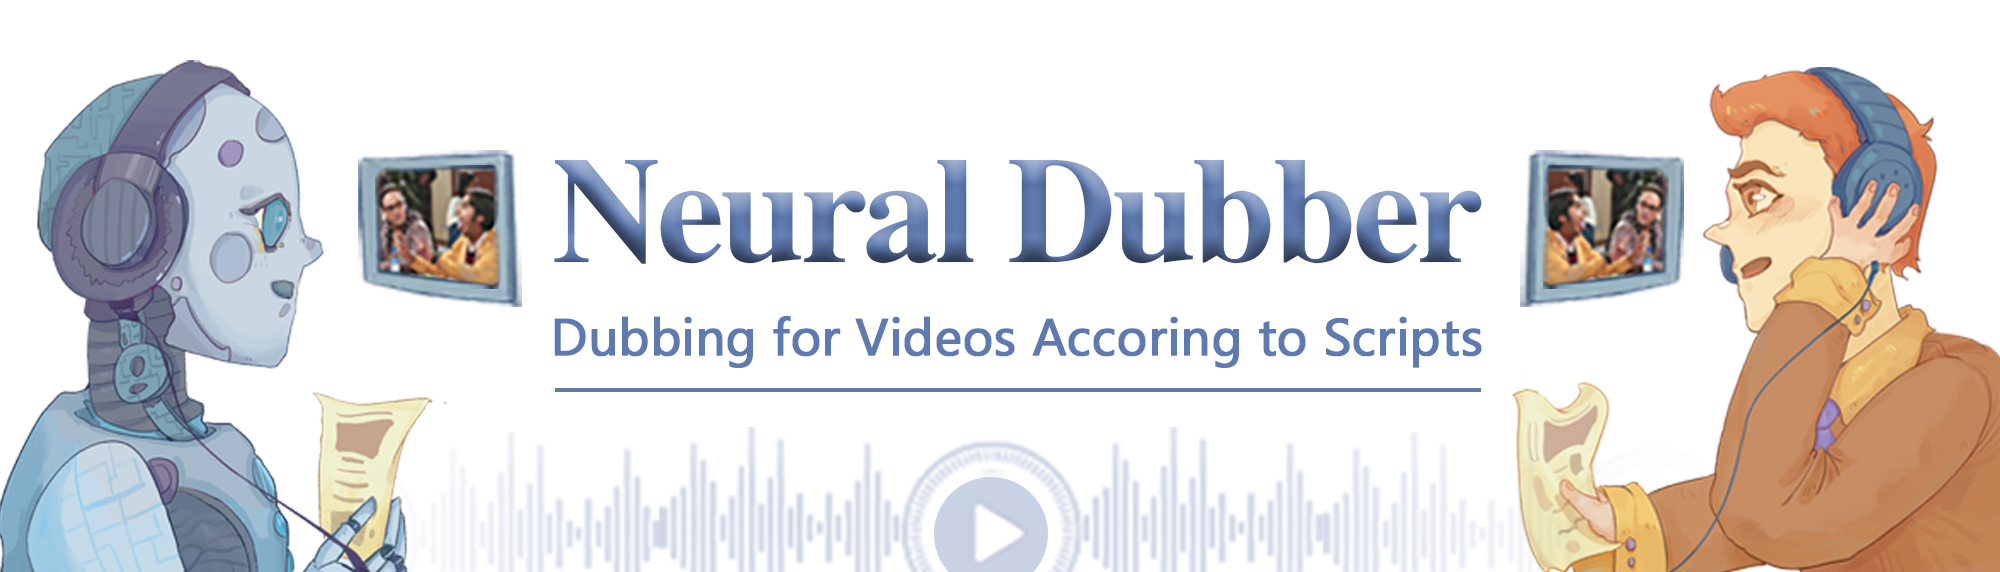
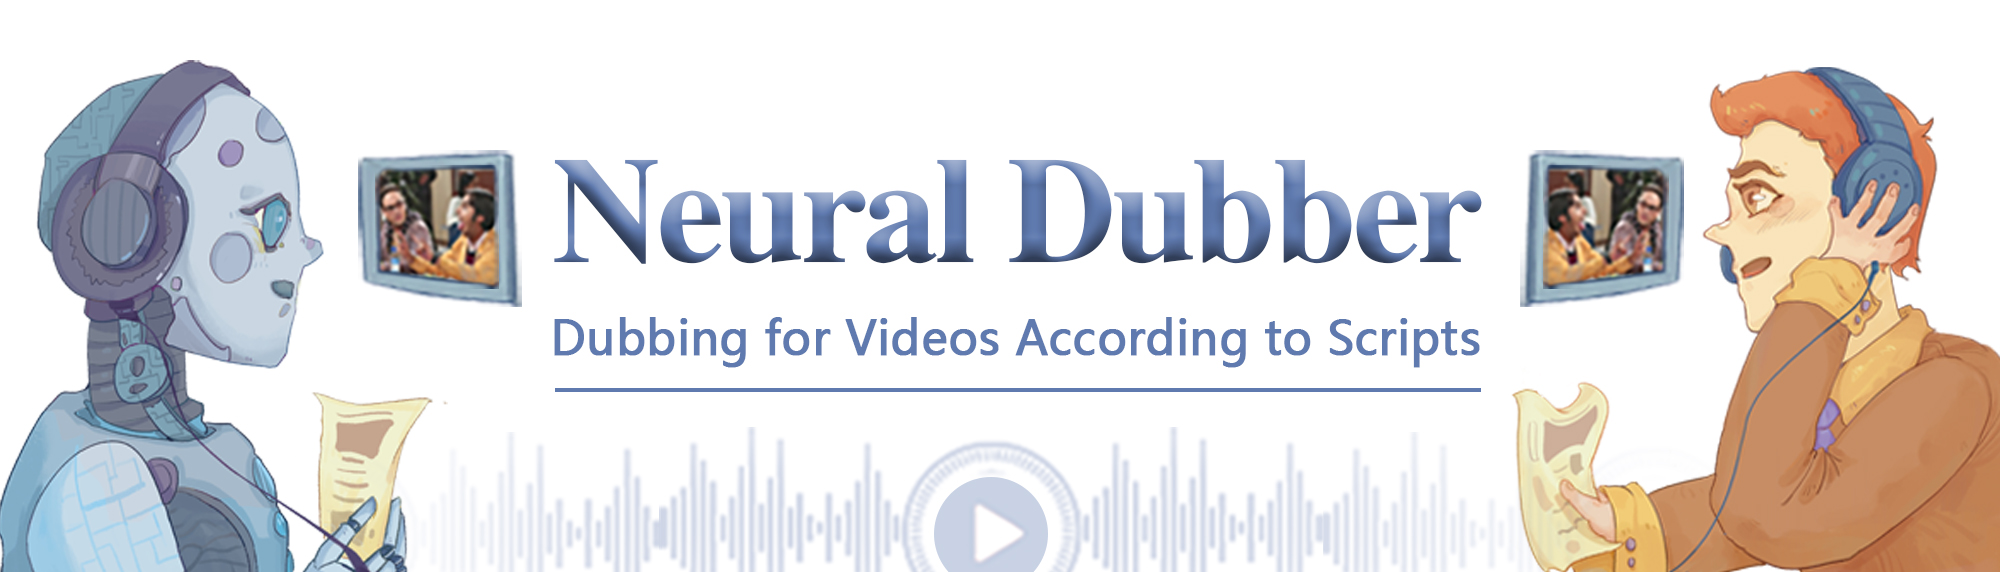
fix typo and refine

Changed region(s): [[0.279, 0.535, 0.744, 0.6538]]

diff --git a/index.html b/index.html
@@ -30,7 +30,7 @@ Neural Dubber
 
 
         
-<link rel="shortcut icon" href="/NeuralDubber/img/fav.ico">
+<link rel="shortcut icon" href="/NeuralDubber/images/marslab.png">
 
 
         
@@ -71,6 +71,8 @@ Neural Dubber
                     
                     <div class="subtitle is-3 ">
                         <DIV style="font-size:x-large">
+<div style="font-size:xx-large">Neural Dubber: Dubbing for Videos According to Scripts</div>
+<br>
 <a href="https://huchenxucs.github.io/">Chenxu Hu</a><sup>1</sup>, Qiao Tian<sup>2</sup>, Tingle Li<sup>1,3</sup>, Yuping Wang<sup>2</sup>, Yuxuan Wang<sup>2</sup>, Hang Zhao<sup>1,3</sup>
 <!-- <a href="https://people.csail.mit.edu/yuewang/">Yue Wang</a><sup>2</sup>, <a href="https://scholar.google.com.hk/citations?user=nUyTDosAAAAJ&hl=en/">Yilun Wang</a><sup>3</sup>, <a href="http://people.csail.mit.edu/hangzhao/">Hang Zhao</a><sup>1</sup> -->
 <br>
@@ -80,23 +82,6 @@ Neural Dubber
 <br>
 <p><strong>NeurIPS 2021</strong></p>
 <br>
-<!-- <div class="social-icons" style="font-size:20px">
-    <a href="https://arxiv.org/abs/2110.08243">
-        <i class="fas fa-file" style="font-size:40px"></i>arXiv
-    </a>
-    &nbsp;&nbsp;&nbsp;&nbsp;&nbsp;&nbsp;&nbsp;&nbsp;&nbsp;&nbsp;&nbsp;&nbsp;&nbsp;&nbsp;
-    <a href="https://github.com/Tsinghua-MARS-Lab/NeuralDubber">
-        <i class="fab fa-github" style="font-size: 40px"></i>Github link
-    </a>
-    &nbsp;&nbsp;&nbsp;&nbsp;&nbsp;&nbsp;&nbsp;&nbsp;&nbsp;&nbsp;&nbsp;&nbsp;&nbsp;&nbsp;
-    <a href="https://mp.weixin.qq.com/s/I4BNwN25JOJoTs8stzDqUg">
-        <i class="fas fa-newspaper" style="font-size: 40px"></i>News(Chinese)
-    </a>
-    &nbsp;&nbsp;&nbsp;&nbsp;&nbsp;&nbsp;&nbsp;&nbsp;&nbsp;&nbsp;&nbsp;&nbsp;&nbsp;&nbsp;
-    <a href="https://slator.com/neural-dubber-tiktok-company-bytedance-explores-automated-dubbing/">
-        <i class="fas fa-newspaper" style="font-size: 40px"></i>News(English)
-    </a>
-</div> -->
 <div class="social-icons" style="font-size:20px">
     <table frame=void style="border:none; padding:0; margin:0; width:100%"> 
 <colgroup>  
@@ -254,13 +239,13 @@ Neural Dubber
 <h2 id="automatic-video-dubbing-avd" class="anchor-link"><a href="#automatic-video-dubbing-avd">Automatic Video Dubbing (AVD)</a></h2>
 <figure>
 <img src="images/avd-task-crop.png" style="padding:0px; margin:0px">
-<figcaption style="text-align:left">
+<figcaption style="text-align:justify">
 <!-- <font size="1" color="red">This is some text!</font> -->
 The schematic diagram of the automatic video dubbing (AVD) task. Given the video script and the video as input, the AVD task aims to synthesize speech that is temporally synchronized with the video. This is a scene where two people are talking with each other. The face picture is gray to indicate that the person was not talking at that time.
 </figcaption>
 </figure>
 <br>
-<div align="left" style="font-size:20px">
+<div align="left" style="font-size:20px; text-align:justify">
 Given a sentence and a corresponding video clip (without audio), the goal of automatic video dubbing (AVD) is to synthesize natural and intelligible speech whose content is consistent with the sentence, and whose prosody is synchronized with the lip movement of the active speaker in the video. Compared to the traditional speech synthesis task which only generates natural and intelligible speech given the sentence, AVD task is more difficult due to the synchronization requirement.
 </div>
                 </div>
@@ -291,7 +276,7 @@ Given a sentence and a corresponding video clip (without audio), the goal of aut
                 <h2 class="title is-2 has-text-centered">Abstract</h2>
                 
                 <div class="markdown has-text-centered">
-                    <div align="left" style="font-size:20px">
+                    <div align="left" style="font-size:20px; text-align:justify">
 Dubbing is a post-production process of re-recording actors' dialogues, which is extensively used in filmmaking and video production. It is usually performed manually by professional voice actors who read lines with proper prosody, and in synchronization with the pre-recorded videos. In this work, we propose Neural Dubber, the first neural network model to solve a novel automatic video dubbing (AVD) task: synthesizing human speech synchronized with the given video from the text. Neural Dubber is a multi-modal text-to-speech (TTS) model that utilizes the lip movement in the video to control the prosody of the generated speech. Furthermore, an image-based speaker embedding (ISE) module is developed for the multi-speaker setting, which enables Neural Dubber to generate speech with a reasonable timbre according to the speaker's face.  Experiments on the chemistry lecture single-speaker dataset and LRS2 multi-speaker dataset show that Neural Dubber can generate speech audios on par with state-of-the-art TTS models in terms of speech quality. Most importantly, both qualitative and quantitative evaluations show that Neural Dubber can control the prosody of synthesized speech by the video, and generate high-fidelity speech temporally synchronized with the video.
 </div>
 
@@ -329,7 +314,7 @@ Dubbing is a post-production process of re-recording actors' dialogues, which is
 </video>
 <br>
 <!-- <br> -->
-<div align="left" style="font-size:20px">
+<div align="left" style="font-size:20px; text-align:justify">
 First, we apply a phoneme encoder and a video encoder to process the phonemes and video frames respectively. After the encoding, both raw phonemes and viedo frames turn into sequences of hidden representations. Then we feed these hidden representations into the text-video aligner and get the expanded sequence Hmel with the same length as the target mel-spectrograms sequence. Meanwhile, a face image randomly selected from the video frames is input into image-based speaker embedding (ISE) module to generate a image-based speaker embedding (only used in multi-speaker setting). We add Hmel and ISE together and feed them into the variance adaptor to add some variance information (e.g., pitch and energy). Finally, we use the mel-spectrogram decoder to convert the adapted hidden sequence into mel-spectrograms sequence.
 </div>
                 </div>
@@ -360,7 +345,7 @@ First, we apply a phoneme encoder and a video encoder to process the phonemes an
                 <h2 class="title is-2 has-text-centered">Results</h2>
                 
                 <div class="markdown has-text-centered">
-                    <DIV style="text-align:left">
+                    <DIV style="text-align:justify">
 Since the AVD task aims to synthesize human speech synchronized with the video from text, the audio quality and the audio-visual synchronization (AV Sync) are the important evaluation criteria.
 <DIV>
 <br>
@@ -376,7 +361,7 @@ In order to measure the synchronization between the generated speech and the vid
 <p>We conduct qualitative and quantitative evaluation on the chem single-speaker dataset, to compare the audio quality and the audio-visual synchronization of the video clips generated by Neural Dubber with other systems.</p>
 <figure>
 <img src="images/single-mos.png" style="padding:0px; margin:0px">
-<figcaption style="text-align:left">
+<figcaption style="text-align:justify">
 <!-- <font size="1" color="red">This is some text!</font> -->
 Table 1: The evaluation results for the single-speaker AVD. The subjective metrics for audio quality and av sync are with 95% confidence intervals.
 </figcaption>
@@ -388,7 +373,7 @@ Table 1: The evaluation results for the single-speaker AVD. The subjective metri
 <p>We conduct human evaluation and quantitative evaluation on the LRS2 multi-speaker dataset to compare Neural Dubber with other systems in multi-speaker setting.</p>
 <figure>
 <img src="images/multi-mos.png" style="padding:0px; margin:0px">
-<figcaption style="text-align:left">
+<figcaption style="text-align:justify">
 <!-- <font size="1" color="red">This is some text!</font> -->
 Table 2: The evaluation results for the multi-speaker AVD. The subjective metrics for audio quality and av sync are with 95% confidence intervals.
 </figcaption>

diff --git a/series/index.html b/series/index.html
@@ -29,7 +29,7 @@ Series - Neural Dubber
 
 
         
-<link rel="shortcut icon" href="/NeuralDubber/img/fav.ico">
+<link rel="shortcut icon" href="/NeuralDubber/images/marslab.png">
 
 
         

diff --git a/tags/index.html b/tags/index.html
@@ -29,7 +29,7 @@ Tags - Neural Dubber
 
 
         
-<link rel="shortcut icon" href="/NeuralDubber/img/fav.ico">
+<link rel="shortcut icon" href="/NeuralDubber/images/marslab.png">
 
 
         

diff --git a/404.html b/404.html
@@ -29,7 +29,7 @@
 
 
         
-<link rel="shortcut icon" href="/NeuralDubber/img/fav.ico">
+<link rel="shortcut icon" href="/NeuralDubber/images/marslab.png">
 
 
         
